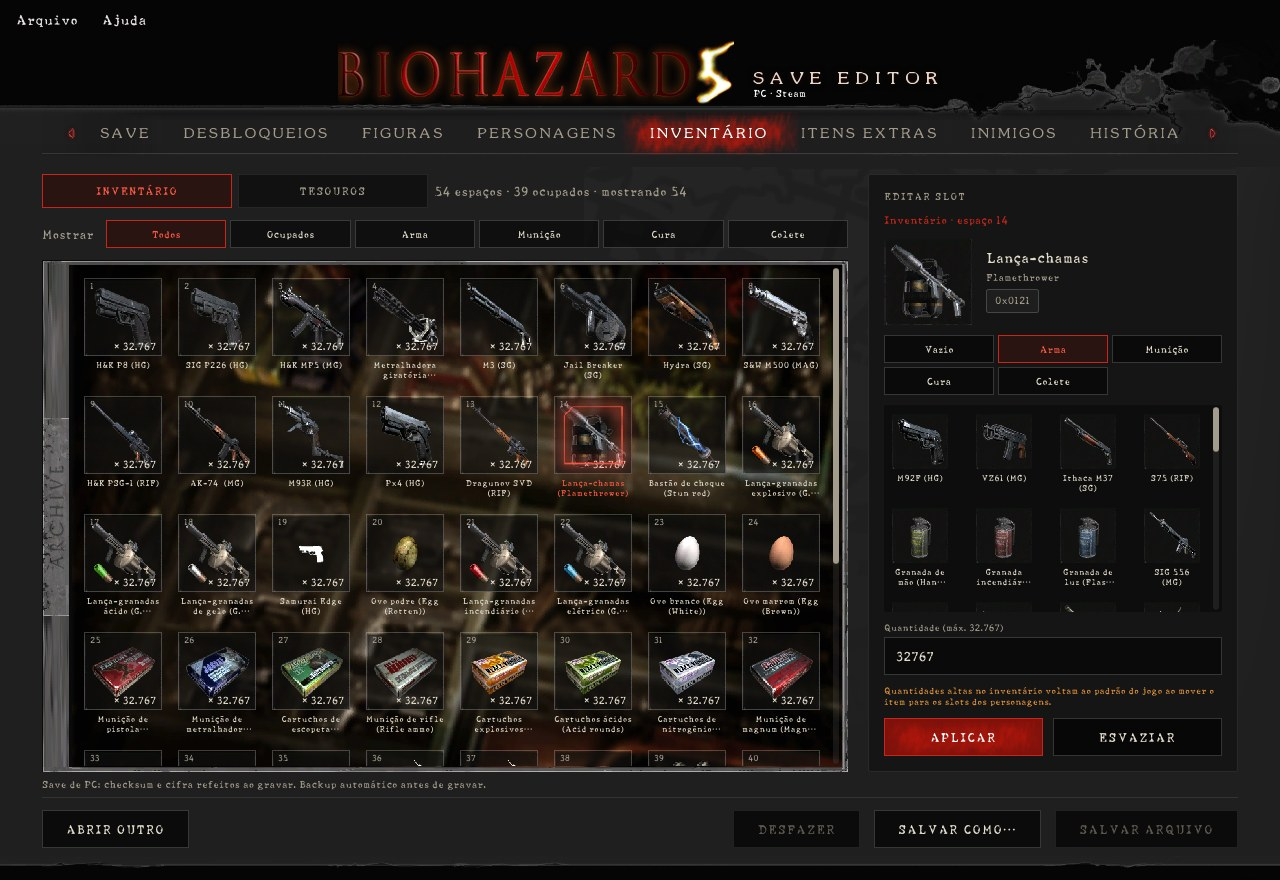
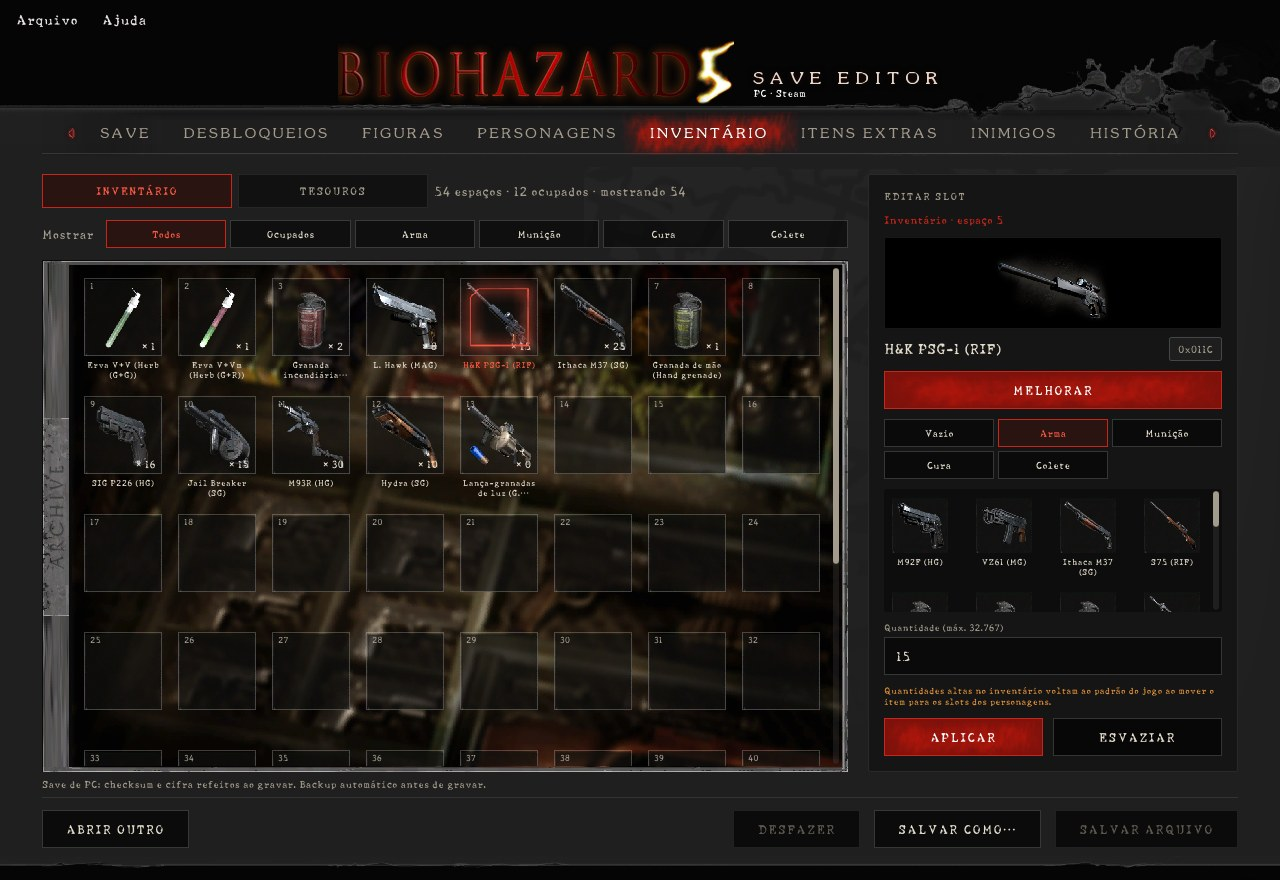
Melhorias das armas e prints novos

diff --git a/README.md b/README.md
@@ -38,6 +38,7 @@ nem instalador.
 | Roupas, filtros de tela, munição infinita, arquivos e Figuras | ✓ | ✓ |
 | Figuras extras (as 10 do menu Extra Figures) | — | ✓ |
 | Slots do Chris e da Sheva | ✓ | ✓ |
+| Melhorias das 18 armas, até o limite de cada uma | ✓ | ✓ |
 | Inventário do baú | ✓ 54 espaços | ✓ 54 espaços |
 | Tesouros do baú | ✓ os 50 do jogo | ✓ os 50 do jogo |
 | Perfil (XUID), Device ID e gamertag | ✓ | — |
@@ -52,7 +53,7 @@ nem instalador.
 | **Save** | Faixa com o logo do jogo, Chris e Sheva da arte do The Mercenaries ao fundo, nome do save, Gold, Exchange Points, data, perfil com gamertag, pasta correta no pendrive e o estado da integridade (checksum, hashes e assinatura). |
 | **Desbloqueios** | Roupas do Chris e da Sheva, filtros de tela, munição infinita das 19 armas (com o ícone de cada uma), os 12 arquivos da Biblioteca, as 46 Figuras e, no PC, as 10 Figuras extras. |
 | **Figuras** | A máquina de cápsulas e as bolinhas das Figuras, como no menu do jogo: as 46 Figuras e, no PC, as 10 Figuras extras, com o nome de cada uma e a opção de desbloquear. |
-| **Personagens** | Os 9 slots do Chris e da Sheva, oferecendo só o que o jogo aceita em cada slot. |
+| **Personagens** | Os 9 slots do Chris e da Sheva, oferecendo só o que o jogo aceita em cada slot, com as melhorias de cada arma. |
 | **Inventário** | O baú em grade de ícones, como no jogo, com as abas Inventário (com filtro por categoria) e Tesouros (com "Colocar todos"). Quantidades altas no inventário voltam ao padrão do jogo ao mover o item para os slots dos personagens. |
 | **Itens Extras** | Consulta aos registros da tabela de itens que não vão para o save (objetos de fase, itens das DLCs, não testados e internos), com ficha de cada um. |
 | **Inimigos** | Os inimigos, animais e personagens da tela de Recordes do jogo, com a foto, o nome em português e o original e a Figura de cada um. |
@@ -81,6 +82,7 @@ descrição e os **174 ícones originais** do RE5 e das DLCs.
 | ![Munição infinita](docs/prints/desbloqueios-municao.jpg) | ![Figuras](docs/prints/figuras.jpg) |
 | ![Inimigos](docs/prints/inimigos.jpg) | ![História](docs/prints/historia.jpg) |
 | ![Save de PC (Steam)](docs/prints/pc-steam.jpg) | ![Tesouros](docs/prints/tesouros.jpg) |
+| ![Melhorias das armas](docs/prints/melhorias.jpg) | |
 
 As capturas da aba Save usam um save de exemplo com perfil e IDs fictícios.
 

diff --git a/CHANGELOG.md b/CHANGELOG.md
@@ -12,6 +12,10 @@ Primeira versão.
 ### Correções depois do lançamento
 As correções entram na própria 1.0.0 (o download da release é atualizado).
 
+- **04/11 — Melhorias das armas:** nos slots e no inventário, o botão Melhorar
+  mostra Potência, Recarregamento, Capacidade e as estrelas de cada arma, só até
+  o limite dela. Trocar ou esvaziar um item agora zera os níveis, para a arma
+  nova não herdar os da anterior.
 - **04/11 — Escolhas e rolagem:** as listas suspensas que cobriam os itens
   viraram botões sempre à vista; a barra de rolagem ficou fina, com a cor do
   jogo e numa faixa própria, em todas as abas; o painel de edição ficou mais
